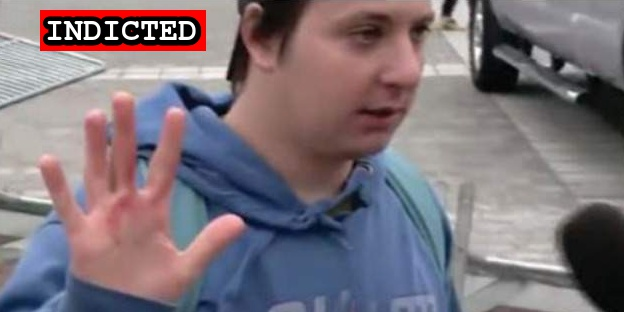
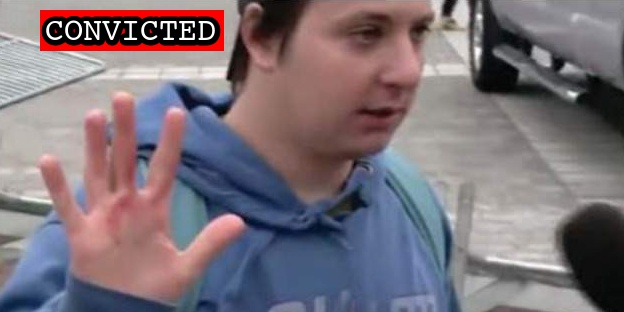
Latest import

Changed region(s): [[0.0609, 0.0288, 0.3654, 0.1731]]

diff --git a/docs/_suspects/thomas-baranyi.md b/docs/_suspects/thomas-baranyi.md
@@ -4,15 +4,15 @@ lastName: Baranyi
 hashtag: ThomasBaranyi
 aka:
 residence: New Jersey
-status: Indicted
+status: Convicted
 date: 2021-01-12
 charged: 2021-01-12
 indicted: 2021-02-02
-convicted:
+convicted: 2022-02-03
 sentenced:
 dismissed:
 deceased:
-plea_hearing:
+plea_hearing: 2022-02-03
 sentencing:
 age: 28
 occupation: Peace Corps
@@ -34,11 +34,16 @@ published: true
 caseNumber: 1:21-cr-62
 videos:
 charges:
+- code: 18 USC § 1752(a)(1)
+  title: Entering a restricted building or grounds
+  url: https://www.law.cornell.edu/uscode/text/18/1752
+  felony:
 sentence:
 ---
 - [News Report](https://apnews.com/article/capitol-siege-shootings-new-jersey-c9bcea4917ebe6c07d6e2f45286c5d8a)
 - [Self Incrimination](https://twitter.com/shaunking/status/1347257804244082695?s=20)
-- [Statement of Facts](https://www.justice.gov/opa/page/file/1355731/download)
+- [Statement of Facts](https://www.justice.gov/usao-dc/case-multi-defendant/file/1469631/download)
 - [Complaint](https://www.justice.gov/opa/page/file/1356466/download)
 - [Indictment](https://www.justice.gov/usao-dc/case-multi-defendant/file/1364756/download)
 - [Information](https://extremism.gwu.edu/sites/g/files/zaxdzs2191/f/Thomas%20Baranyi%20Information.pdf)
+- [Plea Agreement](https://www.justice.gov/usao-dc/case-multi-defendant/file/1469626/download)

diff --git a/docs/_suspects/nicole-prado.md b/docs/_suspects/nicole-prado.md
@@ -4,12 +4,12 @@ lastName: Prado
 hashtag: NicolePrado
 aka:
 residence: Maryland
-status: Convicted
+status: Sentenced
 date: 2021-06-03
 charged: 2021-06-03
 indicted:
 convicted: 2021-11-22
-sentenced:
+sentenced: 2022-02-07
 dismissed:
 deceased:
 plea_hearing: 2021-11-22
@@ -34,12 +34,16 @@ published: true
 caseNumber: 1:21-cr-403
 videos:
 charges:
-- code: 18 USC § 5104(e)(2)(G)
-  title: Parading, demonstrating or picketing in a Capitol building
-  url: https://www.law.cornell.edu/uscode/text/40/5104
-  felony: false
+  - code: 18 USC § 5104(e)(2)(G)
+    title: Parading, demonstrating or picketing in a Capitol building
+    url: https://www.law.cornell.edu/uscode/text/40/5104
+    felony: false
 sentence:
+  - 12 months probation
+  - 2 months curfew (7:00 PM)
+  - $500 restitution
 ---
+
 - [News Report](https://www.wusa9.com/article/news/national/capitol-riots/meet-the-new-congresswoman-friends-instagram-post-leads-to-womans-capitol-riot-arrest-nicole-prado-trump-gaithersburg/65-f436d15e-6d06-462d-9a94-5ac2d9ea4e11)
 - [Information](https://www.justice.gov/usao-dc/case-multi-defendant/file/1404496/download)
 - [Statement of Facts](https://www.justice.gov/usao-dc/case-multi-defendant/file/1452281/download)
